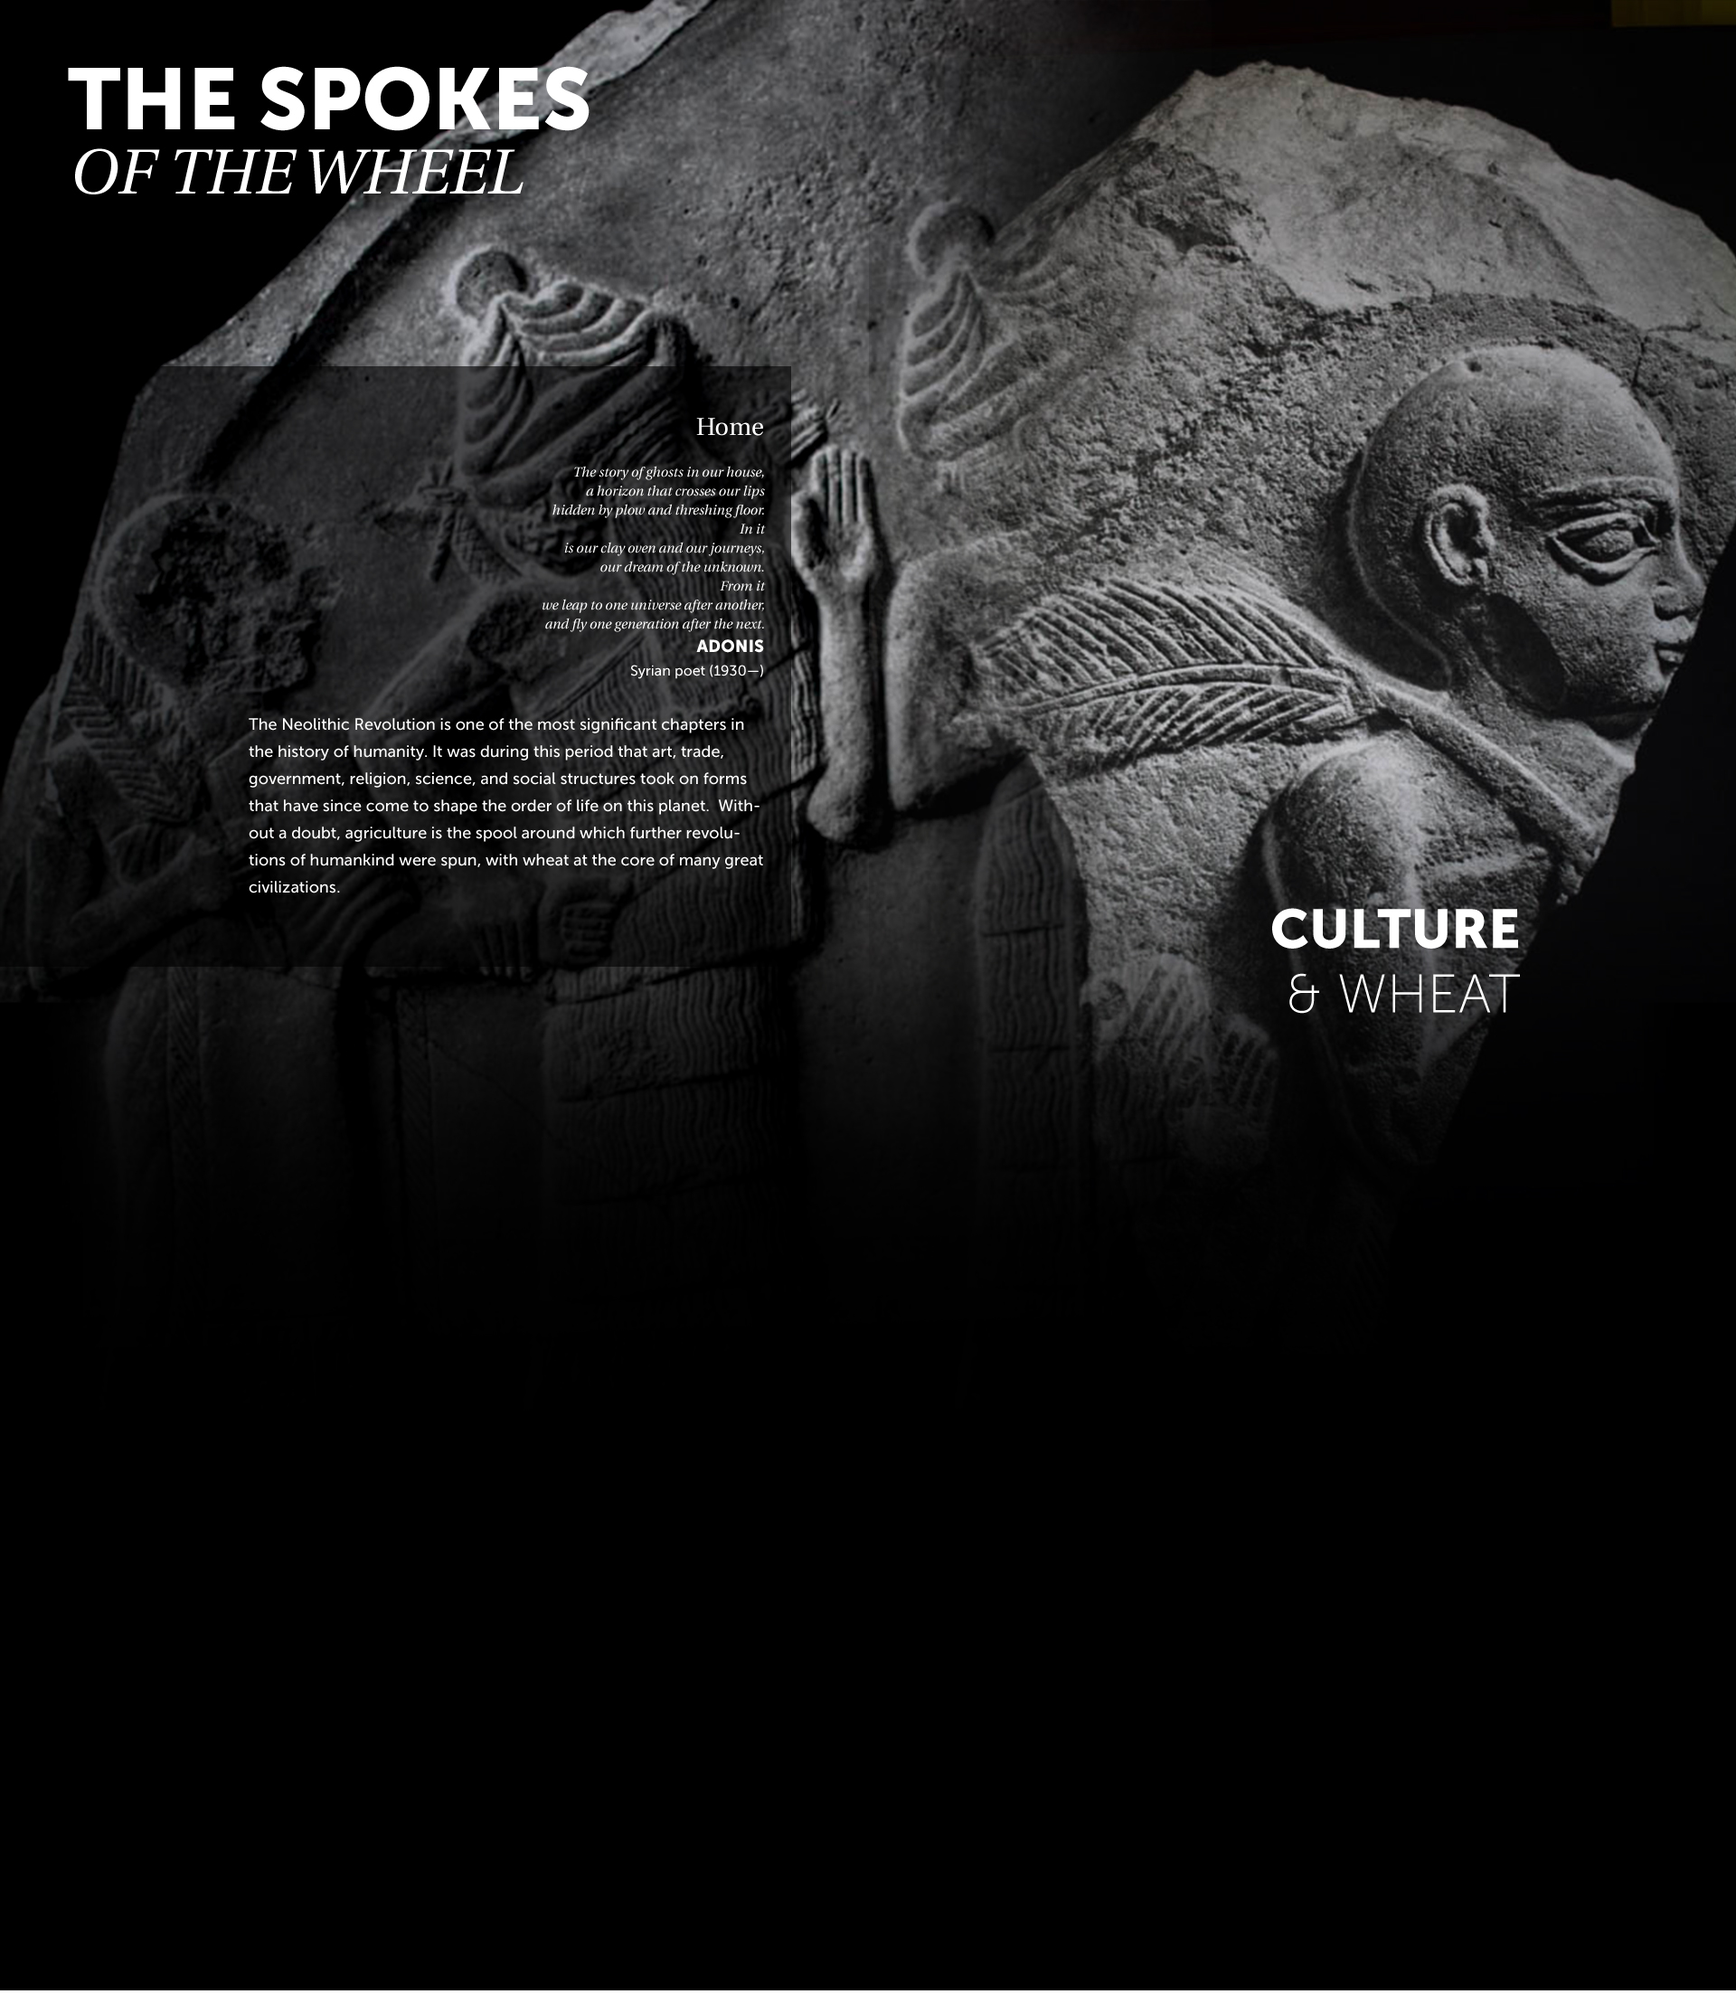
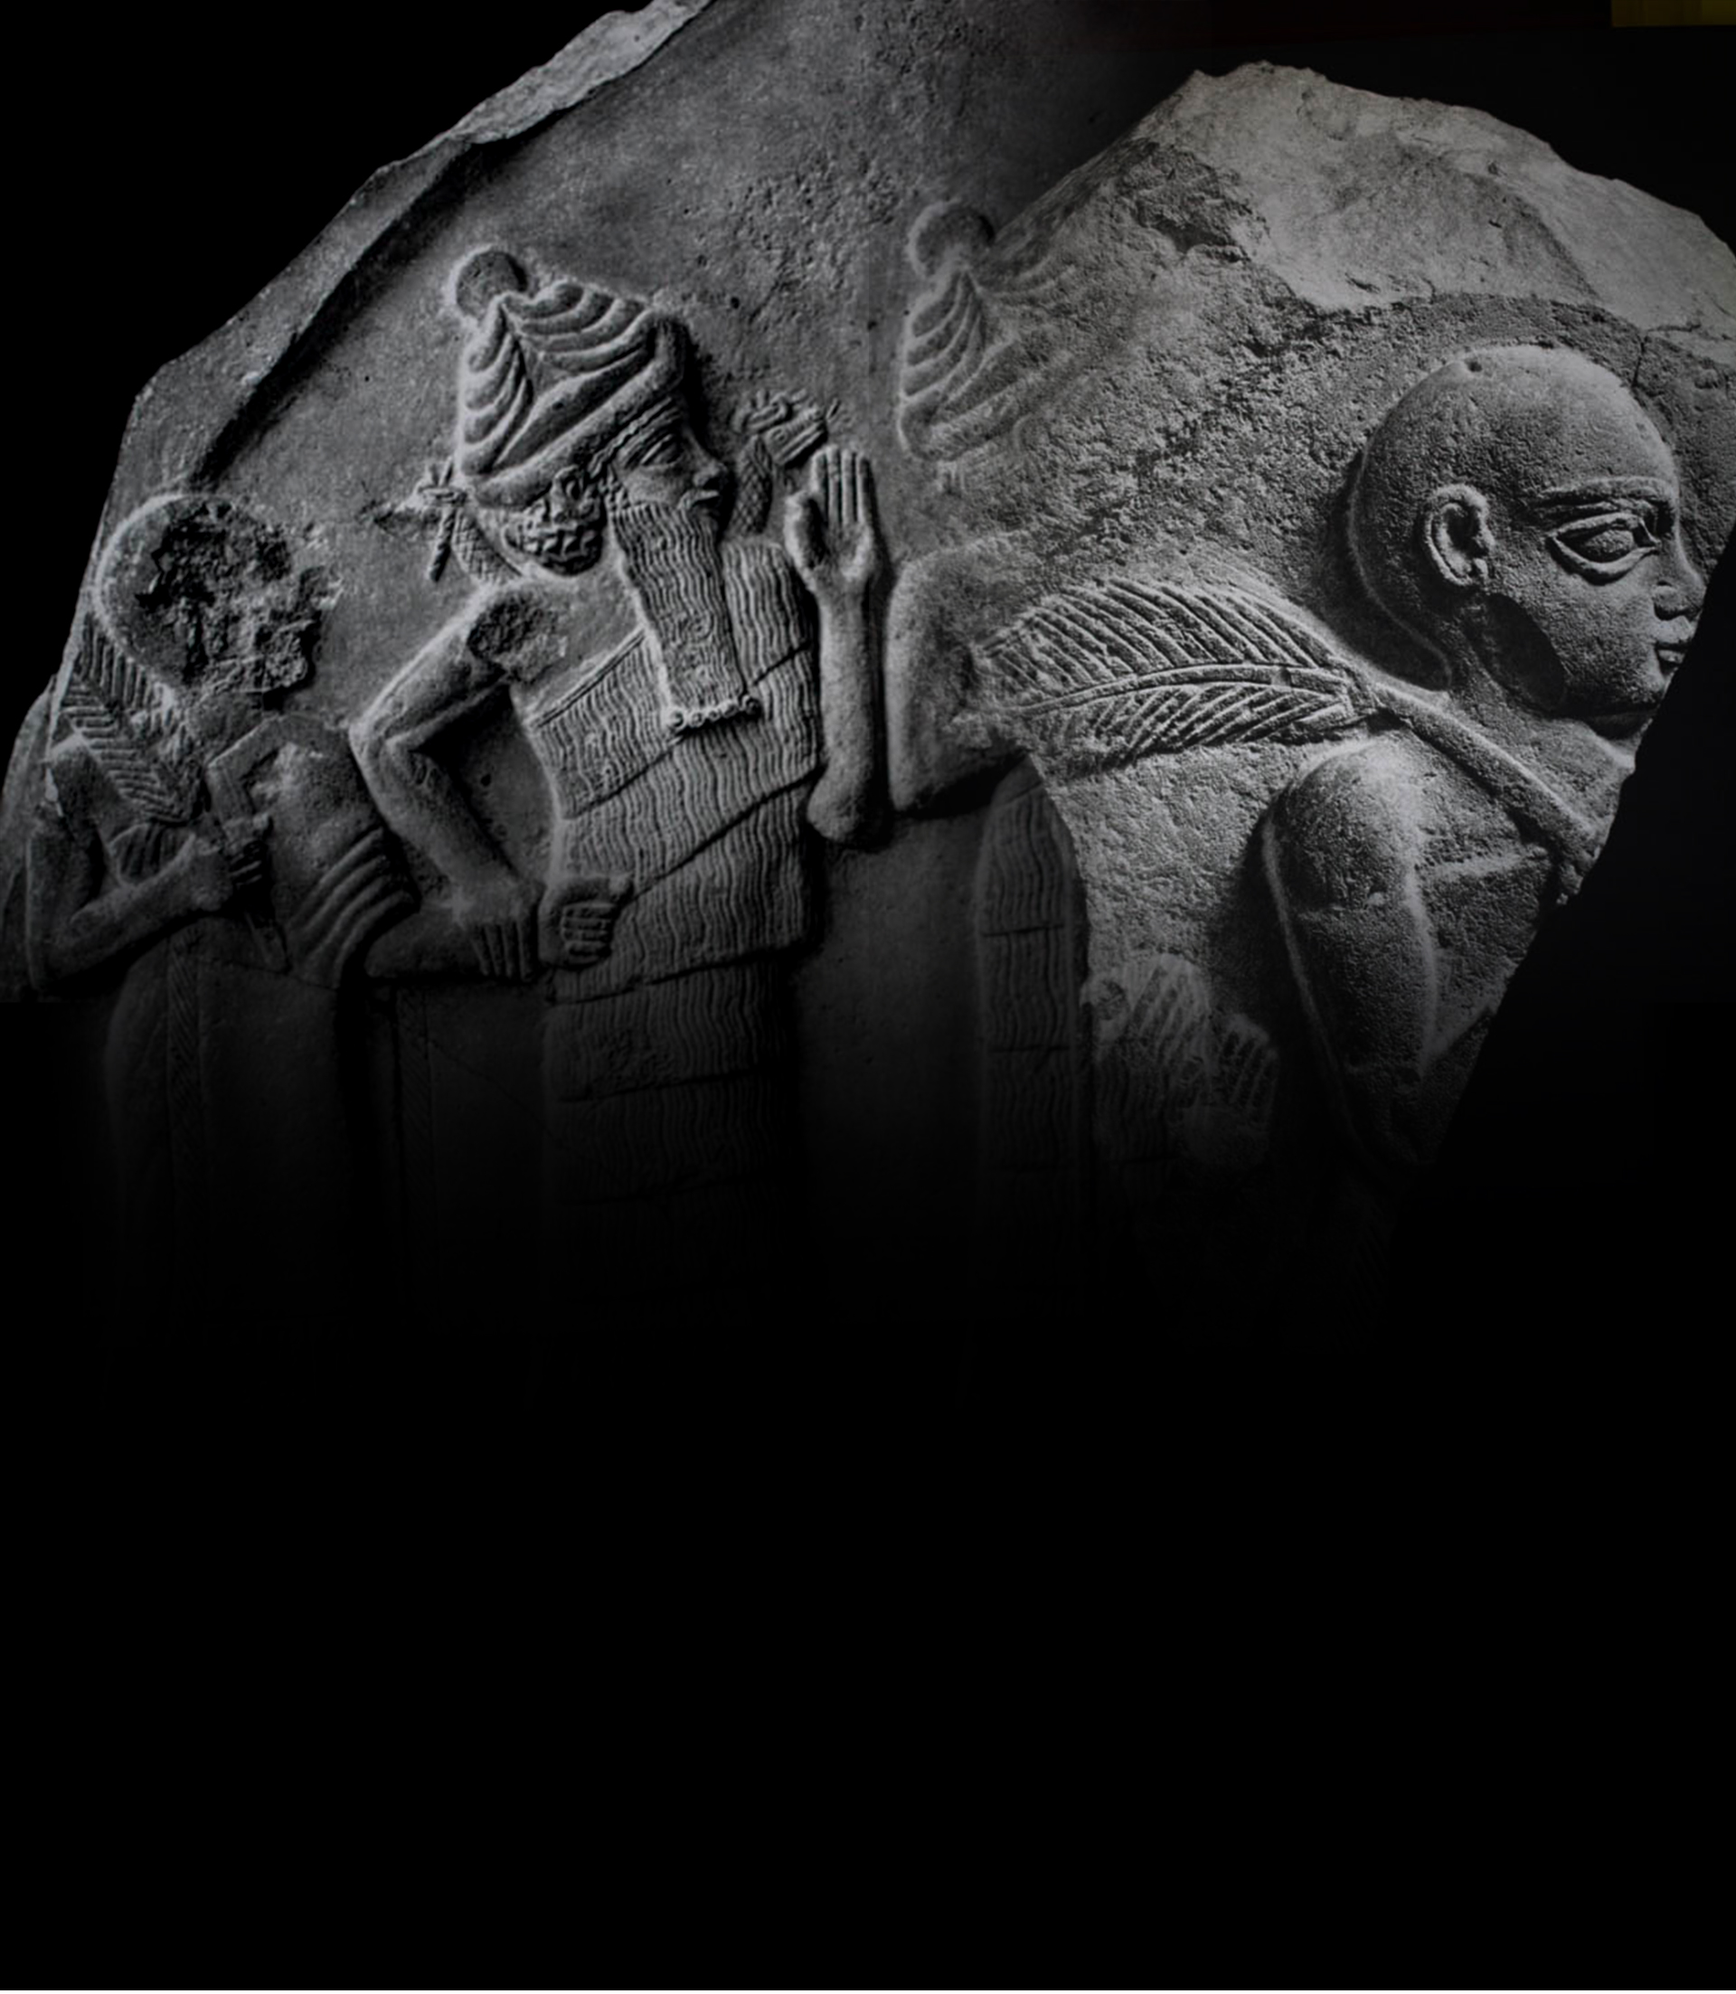
build until slide8

Changed region(s): [[0.0, 0.185, 0.4688, 0.4934], [0.0312, 0.0308, 0.3438, 0.0925], [0.7188, 0.4317, 0.875, 0.5243]]

diff --git a/timeline.html b/timeline.html
@@ -169,22 +169,26 @@ The first domestication of einkorn and emmer wheat has been traced to an area of
 <div id="slideBtn3" class="slideBtn">
 <img src="assets/city-btn-3.png" />
 </div>
-<div id="slideIn1" class="slideIn">
+<div id="slideIn1" class="slideIn white">
 <img src="assets/sickle.jpg" />
-<br>
+<br><br>
 <p>
 The <strong>sickle</strong> is one of the oldest farming tools. Though it was used in pre-Neolithic campsites for harvesting plants, during the Neolithic era, a standardized, improved design emerged to make grain cultivation more efficient.  
 </p>
 </div>
-<div id="slideIn2" class="slideIn">
+<div id="slideIn2" class="slideIn white">
 <img src="assets/scratch_plow.jpg" />
-<br>
+<br><br>
 <p>
 Whereas hand plows had been used prior, the advent of agriculture brought advances such as the domestication of animals which made preparation of fields for cultivation more efficient. The <strong>scratch plow</strong> (6,000 BCE) is a tool pulled by an animal, which turns over the upper layers of soil, burying weeds and old crops as it brings fresh nutrients to the surface in preparation for sowing a new crop.  
 </p>
 </div>
-<div id="slideIn3" class="slideIn">
-<img src="assets/city-slide-3.png" />
+<div id="slideIn3" class="slideIn white">
+<img src="assets/quernstone.jpg" />
+<br><br>
+<p>
+The <strong>quern-stone</strong> (8000 BCE), is the oldest known tool used to grind grain into flour.  It was also used to grind fruits, herbs, spices, meats, bark, pigments, and other minerals used for the production of medicines and cosmetics.  It consists of a lower, stationary stone called the quern, and an upper, mobile, swiveling stone called the handstone.      
+</p>
 </div>
 <span class="heuristica h2 pretitle">TO CITY</span>
 <span class="museo h1 title">FROM SEED</span>
@@ -210,25 +214,87 @@ This shift to a sedentary way of life was perhaps the most iconic change associa
 <div id="slideBtn5" class="slideBtn"></div>
 <div id="slideBtn6" class="slideBtn"></div>
 <div id="slideBtn7" class="slideBtn"></div>
-<div id="slideIn4" class="slideIn">
-<img src="assets/city-slide-4.png" />
+<div id="slideIn4" class="slideIn white">
+<img src="assets/catal-huyuk.png" />
+<br><br>
+<p>
+<strong>Catal Hayuk</strong> (7500- 5700 BCE) is one of the most impressive early settlements. Located in what is now Anatolia, in southern Turkey, it may have housed up to 10,000 people and is by far the largest Neolithic settlement found to date. Evidence indicates that the people living here depended equally on hunting as on the cultivation of wheat, barley, peas, and lentils. Though sheep and goats were already domesticated, cattle domestication also began to emerge during this time. 
+Catal Hayuk is an example of the dramatic ways agriculture transformed social organization. It could even be considered a small city by today’s standards. Unlike Jerf el Ahmar, Catal Hayuk did not appear to have public buildings. Instead, it was composed of individual, but closely constructed domestic structures each containing cooking ovens and hearths. </p>
 </div>
-<div id="slideIn5" class="slideIn">
-<img src="assets/city-slide-5.png" />
+<div id="slideIn5" class="slideIn white">
+<img src="assets/Jerf-al-Ahmar02.jpg" />
+<br><br>
+<p>
+<strong>Jerf el Ahmar</strong> is one of the world’s oldest settlements, dating back to 9,600 BCE and located in what is now northern Syria. A large subterranean structure exists at this site which archeologists believe was used as a communal storage facility. </p>
 </div>
-<div id="slideIn6" class="slideIn">
-<img src="assets/city-slide-6.png" />
+<div id="slideIn6" class="slideIn white">
+<img src="assets/Jericho01.jpg" />
+<br><br>
+<p>
+Later settlements like <strong>Jericho</strong> (founded in 9600 BCE), in what is now the Israeli occupied West bank, and <strong>Jarmo</strong> (7000-5000 BCE) in northern Iraq, there is a clear move towards the construction of residential communities made up of mud-brick houses containing individual grain storage structures, and eventually multiple rooms. In these early settlements sickles, bowls, storage receptacles, and other tools associated with the cultivation and storage of grain were also found. </p>
 </div>
-<div id="slideIn7" class="slideIn">
-<img src="assets/city-slide-6.png" />
+<div id="slideIn7" class="slideIn white">
+<img src="assets/Jericho01.jpg" />
+<br><br>
+<p>
+Later settlements like <strong>Jericho</strong> (founded in 9600 BCE), in what is now the Israeli occupied West bank, and Jarmo (7000-5000 BCE) in northern Iraq, there is a clear move towards the construction of residential communities made up of mud-brick houses containing individual grain storage structures, and eventually multiple rooms. In these early settlements sickles, bowls, storage receptacles, and other tools associated with the cultivation and storage of grain were also found. </p>
 </div>
 <img class="mapBot" src="assets/Map6-block.jpg" />
 </div>
 </slide>
 <!-- ----------- slide 7 --------------- -->
 <slide id="CULTURE_plus_WHEAT" class="top doubleheight slide7">
-<div class="content scrollHor" >
-<img src="assets/slideHor7.png" data-2800="margin-left:0%;" data-3400="margin-left:-400%;"/>
+<div class="content slide7 animate" >
+<span class="heuristica h2 pretitle">OF THE WHEEL</span>
+<span class="museo h1 title">THE SPOKES</span>
+<span class="museo p text blackback">
+<p>Home
+<br><br>
+The story of ghosts in our house,a horizon that crosses our lips hidden by plow and threshing floor.
+<br><br>
+In itis our clay oven and our journeys,
+our dream of the unknown.
+From it <br>
+we leap to one universe after another,
+and fly one generation after the next.
+ADONIS
+Syrian poet (1930—)
+<br><br>
+The Neolithic Revolution is one of the most significant chapters in the history of humanity. It was during this period that art, trade, government, religion, science, and social structures took on forms that have since come to shape the order of life on this planet.  Without a doubt, agriculture is the spool around which further revolutions of humankind were spun, with wheat at the core of many great civilizations. 
+</p></span>
+</div>
+<span class="museo h2 midtitle animate">CULTURE<br>& WHEAT</span>
+<div class="content animate bot" >
+<div class="scrollhorSlide">
+<div class="scrollhorcont">
+<img src="assets/6-Standard-of-UR-peace2.jpg" />
+</div>
+<div class="scrollhorcont">
+<h3>SOCIAL STRATIFICATION</h3>
+<p>
+As agriculture became the engine behind Neolithic societies, lifestyles were increasingly driven by the shifts of the growing seasons. Increased productivity and larger populations required specialized roles and responsibilities assigned to support this labor, while food surpluses and seasonal cycles meant there was more time for other concerns -no longer did everyone in the village need to dedicate themselves to food collection to ensure the community's survival.  
+This development paved the way for social stratification not seen before. Settlements like Catal Hayuk, despite its large population for the time, remained surprisingly egalitarian. However, when significant urbanization took place at the start of the Ubaid period (6500 to 3800 BCE), distinct gender roles and class divisions became increasingly predominant.  
+<br><br>
+Households that once depended on each other for survival became economically independent and competitive as resources such as access to waterways, land and animal ownership, and trade privileges led to differentiated productivity among groups.  
+<br><br>
+The emergence of a ruling class enforced and negotiated these divisions. Where decisions had once been made by the collective community, chieftains emerged with the authority to mediate conflicts and oversee economic and religious matters. The chieftains evolved into a ruling class with kings and city-states, and by the time of the Sumerians (5,000 BCE- 1750 BCE), there were governments that drafted contracts, established trade, granted land for irrigation, collected taxes, and enforced laws that safeguarded a clearly defined social order. 
+</p>
+</div>
+<div class="scrollhorcont">
+<img src="" />
+</div>
+<div class="scrollhorcont"></div>
+<div class="scrollhorcont">
+<img src="" />
+</div>
+<div class="scrollhorcont"></div>
+<div class="scrollhorcont">
+<img src="" />
+</div>
+<div class="scrollhorcont"></div>
+<div class="scrollhorcont"></div>
+<div class="scrollhorcont"></div>
+</div>
 </div>
 <div class="background" style="background-image:url(assets/back7.jpg);background-position: top center;background-size: 100% auto;"></div>
 </slide>

diff --git a/css/styles.css b/css/styles.css
@@ -21,6 +21,7 @@ body {line-height: 1;min-height: 100vh;opacity:0;
     -webkit-transition: opacity 0.5s ease-in-out;
     -moz-transition: opacity 0.5s ease-in-out;
     transition: opacity 0.5s ease-in-out;
+    color:#FFF;
 }
 h1, h2, h3, h4, h5, h6 {
 clear: both;
@@ -93,7 +94,7 @@ h2, span.h2 {
     -moz-column-count: 3; /* Firefox */
     column-count: 3;
 }
-p, .p{font-size: 1.3em;letter-spacing: 0.05em;line-height: 140%;}
+p, .p{font-size: 1.1em;letter-spacing: 0.05em;line-height: 140%;}
 
 .addCross{background-image:url(../assets/menu-btn-close.svg);width: 50px;height: 35px;/* text-align: center; */background-size: contain;background-repeat: no-repeat;background-position: center center;-ms-transform: rotate(45deg);-webkit-transform: rotate(45deg);transform: rotate(45deg);-webkit-transition: all 0.5s ease-in-out;-moz-transition: all 0.5s ease-in-out;transition: all 0.5s ease-in-out;}
 .addInfo{
@@ -592,7 +593,31 @@ position: absolute;
 .slide1 .title {
     top: 12vh;
 }
-
+/* ------------------------------slide7----------------------------*/
+.slide7 .title {
+    top: 12vh;
+    left: 8%;
+}
+.slide7 .midtitle {
+    top: 87vh;
+    right: 8%;
+    position: absolute;
+    z-index: 22;
+}
+.slide7 .pretitle {
+    top: 17vh;
+    left: 8%;
+}
+.slide7 .text {
+position: absolute;
+    left: 12%;
+ 
+    width: 28%;
+    top: 30vh !important;
+}
+.slide7 .pretext{
+    top: 12vh;
+}
 /* ------------------------------slideins----------------------------*/
 .slideBtn {
     position: absolute;
@@ -617,13 +642,13 @@ div#slideBtn3 {
     -moz-transition: all 0.8s ease-in-out;
     transition: all 0.8s ease-in-out;
     z-index:30;
-    width: 30%;
+    width: 25%;
     font-family: museo-sans;
     background-color: rgba(255,255,255,0.8);
     -webkit-box-shadow: 0px 10px 23px -6px rgba(0,0,0,0.66);
     -moz-box-shadow: 0px 10px 23px -6px rgba(0,0,0,0.66);
     box-shadow: 0px 10px 23px -6px rgba(0,0,0,0.66);
-      padding: 3vh 3%;
+    padding: 3vh 3%;
 }
 .slideIn.caption{
   background-color: rgba(0,0,0,0.5);
@@ -641,15 +666,17 @@ margin:4vh 0;
 
     margin-bottom:1em
 }
-.slideIn p{
-
-    margin-bottom:2em
-}
+.slideIn p{margin-bottom:2em;text-align: justify;}
 .slideIn.out {
 
     right:10%;
 
 }
+.slideIn.white {
+    color: #000;
+}
+
+
 .slideIn.caption.out {
 
     right:4.5%;
@@ -664,9 +691,8 @@ overflow-y:scroll;
 
 div#slideIn0 {
     left: 5%;
-    width: 30%;
+    /* width: 25%; */
     padding: 5vh 3%;
-
 }
 
 .slideIn.out.scroll {

diff --git a/js/parallax_setup_timeline.js b/js/parallax_setup_timeline.js
@@ -66,7 +66,7 @@ var slide5Attr = {
 '1700':"transform:translate(0,100vh);",
 '1800':"transform:translate(0,0vh);",
 '2100':"transform:translate(0,0vh);",
-'2201':"transform:translate(0,-100vh);",
+'2200':"transform:translate(0,-100vh);",
 'triggerin':"1800",
 'triggerout':"2100",
 'color':"white"};
@@ -79,7 +79,7 @@ var slide6Attr = {
 '1800':"transform:translate(0,110vh);",
 '1820':"transform:translate(0,100vh);",
 '2100':"transform:translate(0,100vh);",
-'2200':"transform:translate(0,0vh);",
+'2101':"transform:translate(0,0vh);",
 '2401':"transform:translate(0,0vh);",
 '2501':"transform:translate(0,-100vh);",
 'triggerin':"2200",
@@ -155,24 +155,23 @@ var content3Attr = {
 };
 contentAttr.push(content3Attr);
   var content4Attr = {
-'1350':"transform:translate(-100%,0vh);",
-'1450':"transform:translate(0,0vh);"
+'1000':"transform:translate(-100%,0vh);",
+'1100':"transform:translate(0,0vh);"
 };
 contentAttr.push(content4Attr);
   var content4_1Attr = {
-'1350':"transform:translate(-100%,0vh);",
-'1450':"transform:translate(0,0vh);"
+'1300':"transform:translate(-100%,0vh);",
+'1400':"transform:translate(0,0vh);"
 };
 contentAttr.push(content4_1Attr);
 var content5Attr = {
-'0':"transform:translate(0,110vh);",
-'1800':"transform:translate(0,110vh);",
-'1950':"transform:translate(0,0vh);"
+'1320':"transform:translate(-100%,0vh);",
+'1420':"transform:translate(0,0vh);"
 };
 contentAttr.push(content5Attr);
     jQuery.each(contentAttr, function(index, object) {
        jQuery.each(object,function(attribute, value){
-        jQuery('.animate').eq(index).attr('data-'+attribute, value).attr('animatecount',index);
+        jQuery('.animate').eq(index).attr('data-'+attribute, value).attr('animatecount',index+1);
    		})
 	});
 	

diff --git a/js/setup_timeline.js b/js/setup_timeline.js
@@ -36,6 +36,21 @@
 }, 500);
   console.log('standby Off');
  }
+ 
+ // ------------------------ scrollhor-----------------------------
+ function setupScrollHor(){
+	 
+	 jQuery('.scrollor').each(function() {
+	 var width = 0;
+    	
+		
+		jQuery(this).children('div').each(function() {
+    	width += jQuery(this).outerWidth( true );
+		});
+		jQuery(this).css('width',width+'px')
+		});
+  
+  }
   
 function menuSetup(){
 // ------------------------ SETUP Menu-----------------------------
@@ -259,14 +274,15 @@ triggers.push(trigger1);
 }
    jQuery(document).ready(function(){
    
-menuSetup();
-parallaxSetup();
-triggerSetup();
+		menuSetup();
+		parallaxSetup();
+		triggerSetup();
 
 	});
 	// ------------------------ SETUP SKROLLR-----------------------------
 
   jQuery(window).load(function(){
-skrollrSetup();
+		skrollrSetup();
+		setupScrollHor();
 		jQuery('body').css('opacity','1');
 	});
